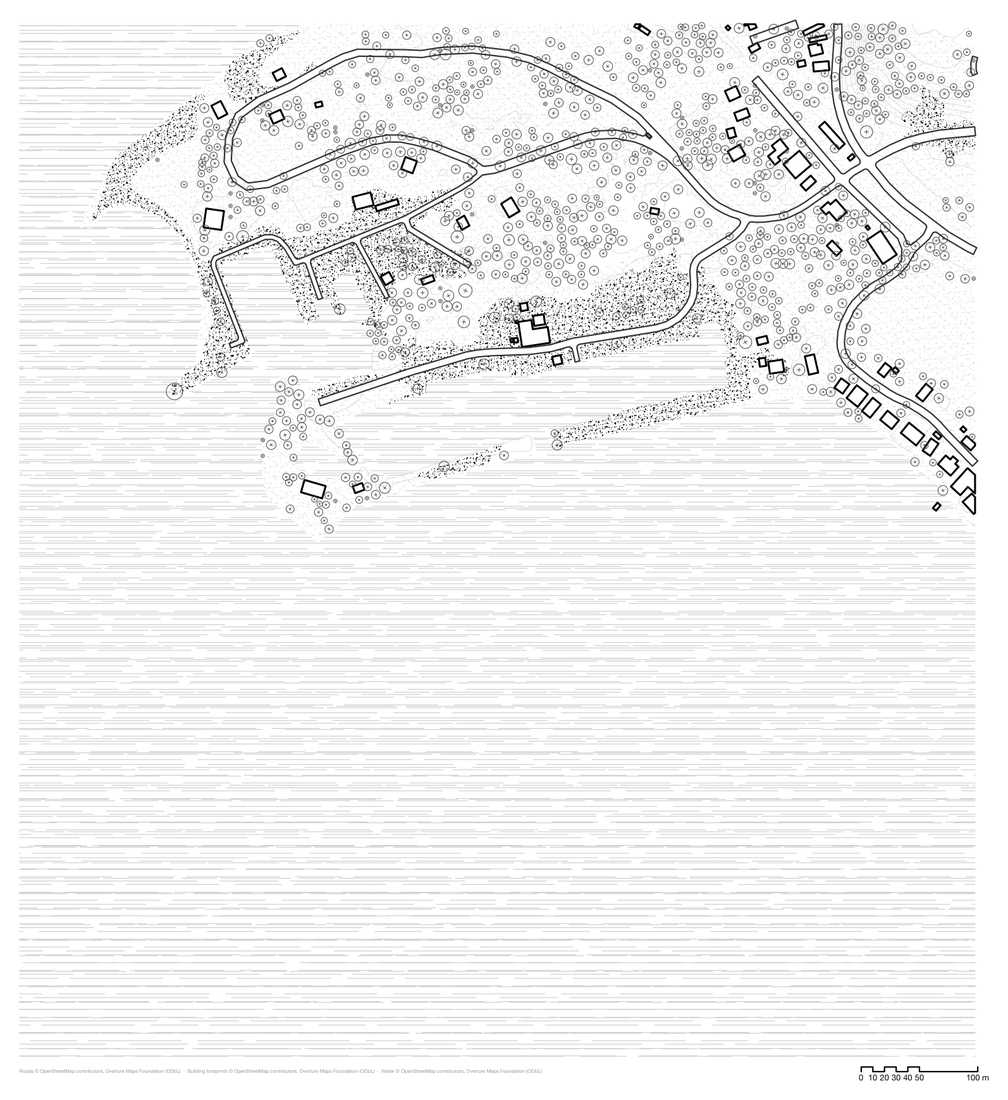
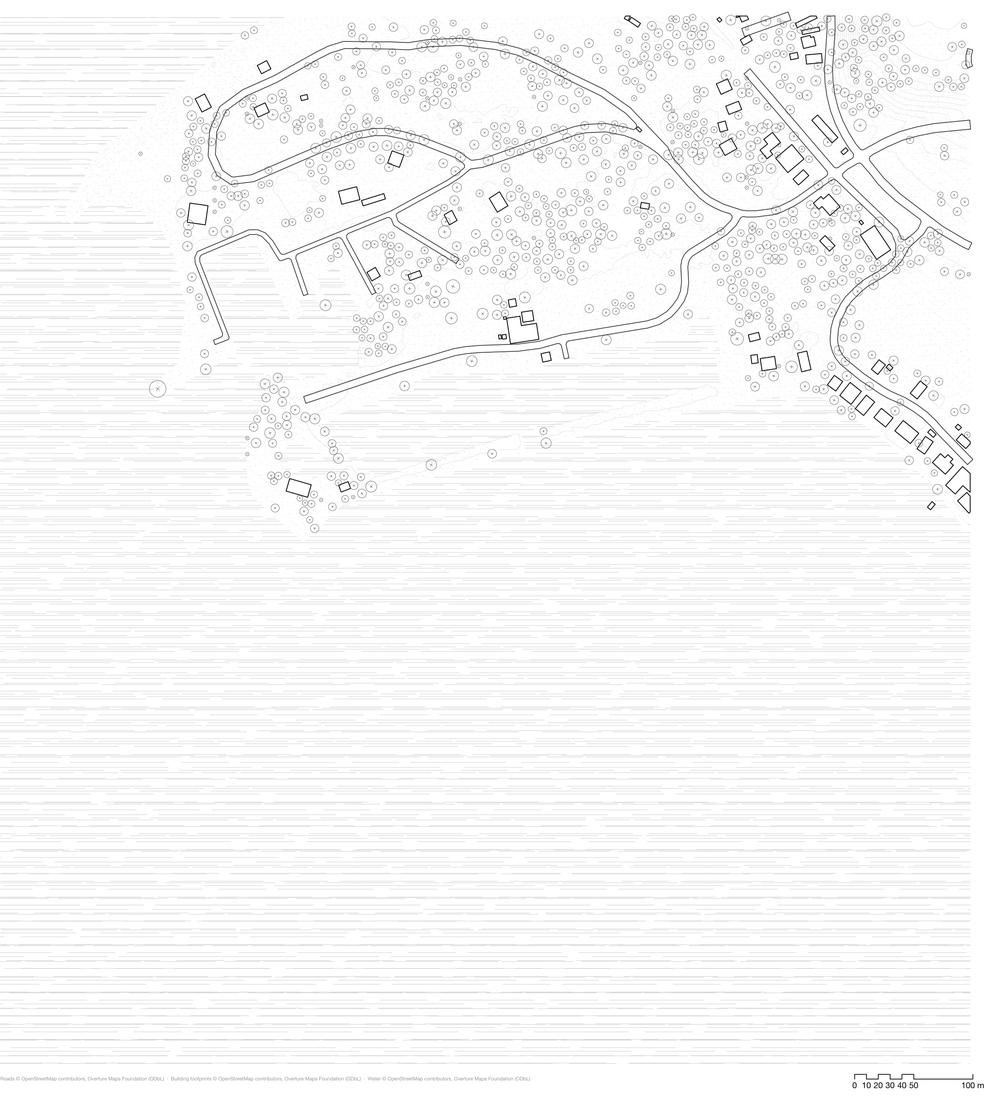
Hero image from the user's own Rhino print; default roofs/infra 0.20mm
The scripted FilePdf print rendered hatches in display color (solid
black vegetation/water) — the user's File>Print PDF shows the intended
print colors: pale gray hatch-reference fills. Her print replaces the
scripted render as the README hero.

Defaults: roofs 0.40→0.20 (her call after print calibration — one step
above roads, not dominating); infrastructure 0.30→0.20 with it, since
its design note says it must stay subordinate to roof outlines. 307
tests green.

Changed region(s): [[0.0, 0.0, 1.0, 0.4945], [0.0, 0.5564, 1.0, 0.9891]]

diff --git a/backend/siteplan_backend/models/schemas.py b/backend/siteplan_backend/models/schemas.py
@@ -112,10 +112,12 @@ class StyleConfig(BaseModel):
     units: Literal["m", "mm", "cm", "ft", "in"] = "m"
     # Defaults mirror poc.py's architectural hierarchy: roofs heaviest,
     # roads secondary, trees/land texture lightest.
-    roofs: LayerStyle = LayerStyle(color="#000000", line_weight_mm=0.40)
+    # 0.20 (was 0.40): user's call after seeing prints — roofs one step
+    # above roads, not dominating the sheet.
+    roofs: LayerStyle = LayerStyle(color="#000000", line_weight_mm=0.20)
     # Between roads and roofs in visual weight: reads as built structure
     # (pier decks, bridges) but stays subordinate to roof outlines.
-    infrastructure: LayerStyle = LayerStyle(color="#000000", line_weight_mm=0.30)
+    infrastructure: LayerStyle = LayerStyle(color="#000000", line_weight_mm=0.20)
     roads: LayerStyle = LayerStyle(color="#333333", line_weight_mm=0.18)
     trees: TreeStyle = TreeStyle()
     # Empty list = the pipeline's hatch-reference defaults (one entry per

diff --git a/backend/tests/test_schemas.py b/backend/tests/test_schemas.py
@@ -136,7 +136,9 @@ class TestContourStyle:
 class TestStyleConfig:
     def test_defaults(self):
         sc = StyleConfig()
-        assert sc.roofs.line_weight_mm == 0.40     # heaviest: outline hierarchy
+        # user's print-calibrated hierarchy: roofs/infra one step above roads
+        assert sc.roofs.line_weight_mm == 0.20
+        assert sc.infrastructure.line_weight_mm == 0.20
         assert sc.roads.line_weight_mm == 0.18
         assert sc.trees.line_weight_mm == 0.10
         assert sc.land_types == []                 # [] = hatch-reference defaults
